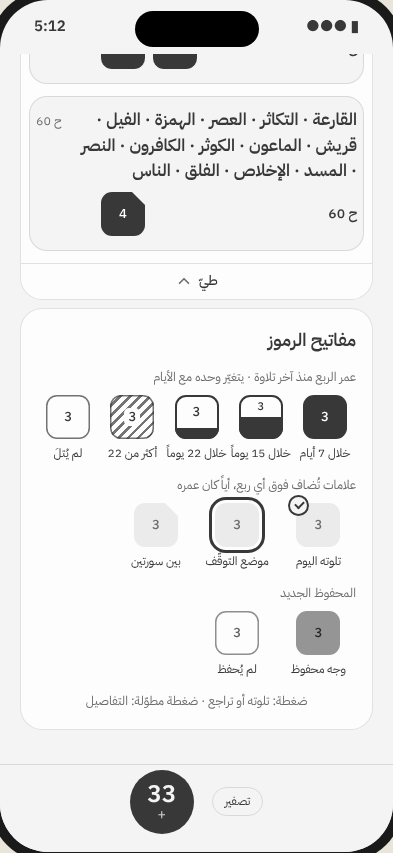
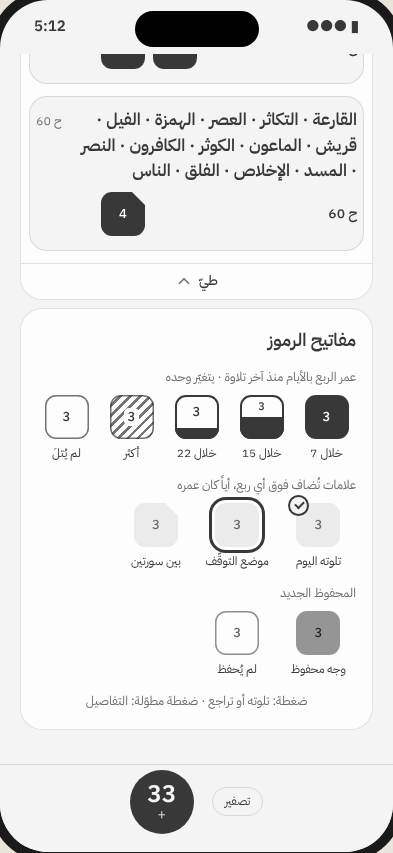
المصمّم · ش0: تسميات الدرجات الخمس في مفاتيح الرموز لا تتلاصق (م17)
Claude-Session: https://claude.ai/code/session_01RdLZ28h7xinUMQ1HJNxsgp

diff --git a/design/shared/ds.js b/design/shared/ds.js
@@ -93,8 +93,8 @@ const counterHTML=(S,big)=>`<div class="counter ${big?'big':''}"><button class="
 function keysHTML(){
   const k=(c,t,txt)=>`<div class="key"><div class="q ${c} t-${t}" style="--cb:var(--card)">${c.includes('shared')?'<i class="cut"></i>':''}<span class="n">3</span></div><span>${txt}</span></div>`;
   return `<div class="keys"><h3>مفاتيح الرموز</h3>
-  <div class="kgrp">عمر الربع منذ آخر تلاوة · يتغيّر وحده مع الأيام</div>
-  <div class="krow k5">${k('L1','far','خلال 7 أيام')}${k('L2','far','خلال 15 يوماً')}${k('L3','far','خلال 22 يوماً')}${k('L4','far','أكثر من 22')}${k('L5','far','لم يُتلَ')}</div>
+  <div class="kgrp">عمر الربع بالأيام منذ آخر تلاوة · يتغيّر وحده</div>
+  <div class="krow k5">${k('L1','far','خلال 7')}${k('L2','far','خلال 15')}${k('L3','far','خلال 22')}${k('L4','far','أكثر')}${k('L5','far','لم يُتلَ')}</div>
   <div class="kgrp">علامات تُضاف فوق أي ربع، أياً كان عمره</div>
   <div class="krow">${k('ghost today','ink','تلوته اليوم')}${k('ghost bm','ink','موضع التوقّف')}${k('ghost shared','ink','بين سورتين')}<div></div></div>
   <div class="kgrp">المحفوظ الجديد</div>

diff --git a/design/shared/ds.css b/design/shared/ds.css
@@ -159,7 +159,8 @@
 .keys{background:var(--card);border:1px solid var(--line);border-radius:22px;padding:16px 16px 18px;margin:6px 0 10px}
 .keys h3{margin:0 0 6px;font-size:18px;font-weight:600}
 .kgrp{font-size:12.5px;color:var(--muted);margin:10px 0 2px}
-.krow.k5{grid-template-columns:repeat(5,1fr);gap:2px}
+.krow.k5{grid-template-columns:repeat(5,1fr);gap:6px}
+.krow.k5 .key>span{white-space:nowrap}
 .krow{display:grid;grid-template-columns:repeat(4,1fr);gap:6px;justify-items:center;margin-bottom:4px}
 .key{display:flex;flex-direction:column;align-items:center;gap:6px;padding:6px 0 2px;text-align:center}
 .key>span{font-size:12px;line-height:1.4}
